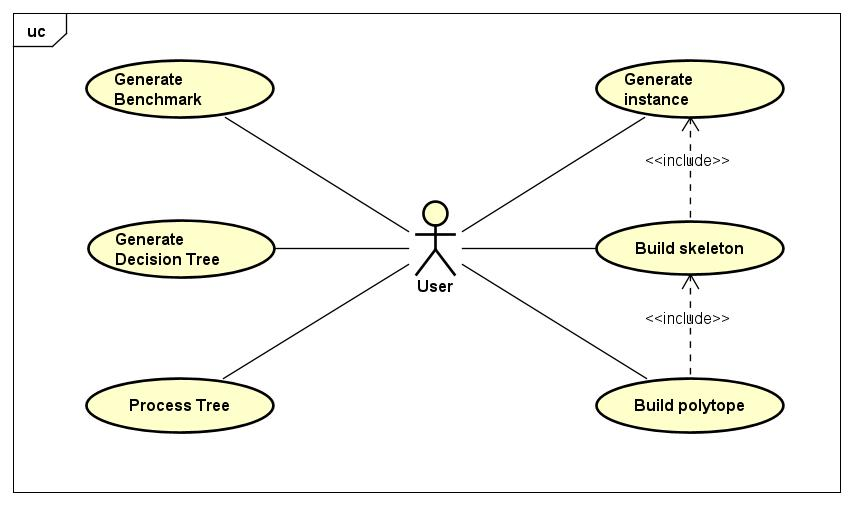
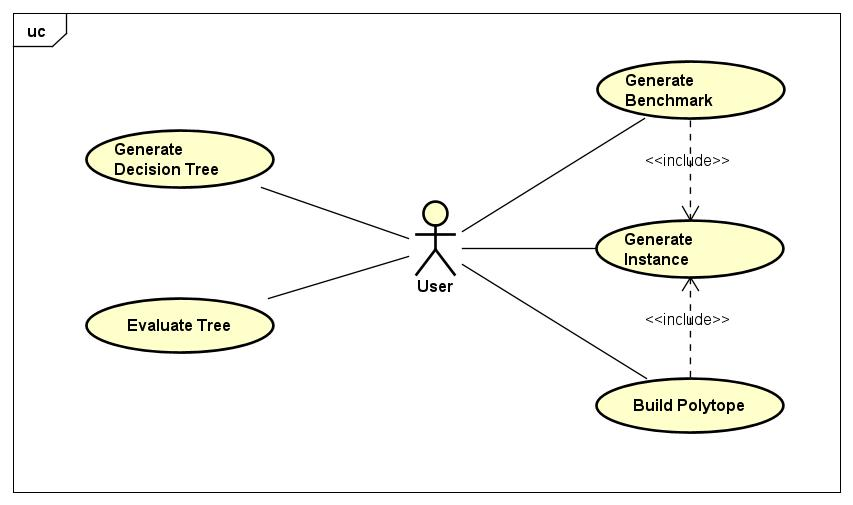
[#6] specification

diff --git a/docs/README.md b/docs/README.md
@@ -1,1 +1,97 @@
 # Project Documentation
+
+This project implements the ideas presented in the **Exact Algorithms for Small-Scale 
+Combinatorial Optimization Problems** paper which is still an ongoing project.
+This brief documentations describes the specifications, architecture and quality tests.
+
+Note that since the system has no interface the user should directly interact with the code provided.
+Therefore, this documentation along with the one found on the `README` file in the root 
+directory such suffice as user manual.
+
+## Specification
+
+The goal of this project is to design small decision trees to solve small instances
+of well-known classical problems, based on the geometric characteristics of these polytopes.
+In order to accomplish this goal our system has six main use cases shown in the figure below.
+
+![Use case diagram](https://github.com/cleberoli/tiny-problems/blob/develop/docs/uml/use-cases.jpg?raw=true)
+
+The user is responsible for performing all use cases as it is specified.
+
+### 1. Generate Instance
+
+#### Goal
+Given a defined polytope the user should be able to generate the instances
+for that polytope (i.e. the list of its vertices).
+
+#### Flow
+1. The user creates the corresponding instance object passing the desired parameters.
+2. The system verifies whether an instance matching the parameters exists:
+
+    a) In case such instance already exists the system loads the solutions from file.  
+    b) Otherwise it computes the solution according with the definition and saves
+    them to a file.
+3. The user can now access the instance's solution by calling the methods `get_solution_list` or
+`get_solution_dict`.
+
+### 2. Build Polytope
+
+#### Goal
+Given a defined polytope the user should able to build it, with its skeleton and voronoi diagram.
+
+#### Flow
+1. The user creates the corresponding polytope object passing the desired parameters.
+2. The system loads the corresponding instance files.
+3. The system verifies whether an skeleton file matching the parameters exists:
+
+    a) In case such skeleton already exists the system loads it from the file.  
+    b) Otherwise it computes the skeleton according with the definition and saves
+    it to a file.
+4. The system creates the voronoi diagram with the computed skeleton.
+5. The system computes the solution cones based on the instance solutions.
+
+### 3. Generate Benchmark
+
+#### Goal
+Given a defined instance the user should be able to generate benchmark files with
+objective functions that correspond to that instance.
+
+#### Flow
+1. The user creates the corresponding benchmark object passing the desired parameters.
+2. The system loads the corresponding instance files.
+3. The system generates the required number of points for each solution and saves them
+to a file along with their corresponding solution.
+
+### 4. Generate Decision Tree
+
+#### Goal
+Given a defined polytope the user should be able to generate the decision tree that accurately
+classifies any given point to its corresponding solution.
+
+#### Flow
+1. The user creates the tree object passing the desired polytope as parameter.
+2. The system generates the tree with the chosen algorithm.
+3. The user calls the `TreeWriter` passing the tree as parameter.
+4. The systems writes the source code that will execute the computed tree for any point.
+
+### 5. Evaluate Tree
+
+#### Goal
+Given a generated decision tree along with its corresponding benchmark the user should
+be able to evaluate the decision tree for its accuracy.
+
+#### Flow
+1. The user creates the decision tree file passing the corresponding polytope as parameter.
+2. The user creates a `BenchmarkRunner` object passing the generated tree as parameter.
+3. The user calls the `run` method from the `BenchmarkRunner`.
+4. The system runs the decision tree for each point in the benchmark file and generates
+a solution file containing the following for each benchmark point:
+
+    * Whether the solutions are the same
+    * Whether the solutions are equivalent (both solutions have the same optimal value)
+    * The benchmark solution
+    * The solution found by the decision tree
+    * The corresponding tree node
+    * The node's height
+5. The system also computes the average height of the tree as the average of the heights for each
+point in the benchmark.
